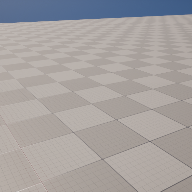
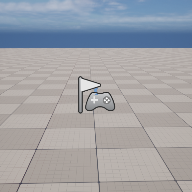
마우스 휠로 카메라 거리 설정 기능 구현
마우스 휠로 카메라 거리 설정 기능 구현

diff --git a/BasicUnrealProject/Source/BasicUnrealProject/MyCharacter.h b/BasicUnrealProject/Source/BasicUnrealProject/MyCharacter.h
@@ -39,4 +39,5 @@ public:
 	void doMoveRight(float val);
 	void doMouseUp(float val);
 	void doMouseRight(float val);
+	void doChameraArmLengthSetup(float val);
 };
